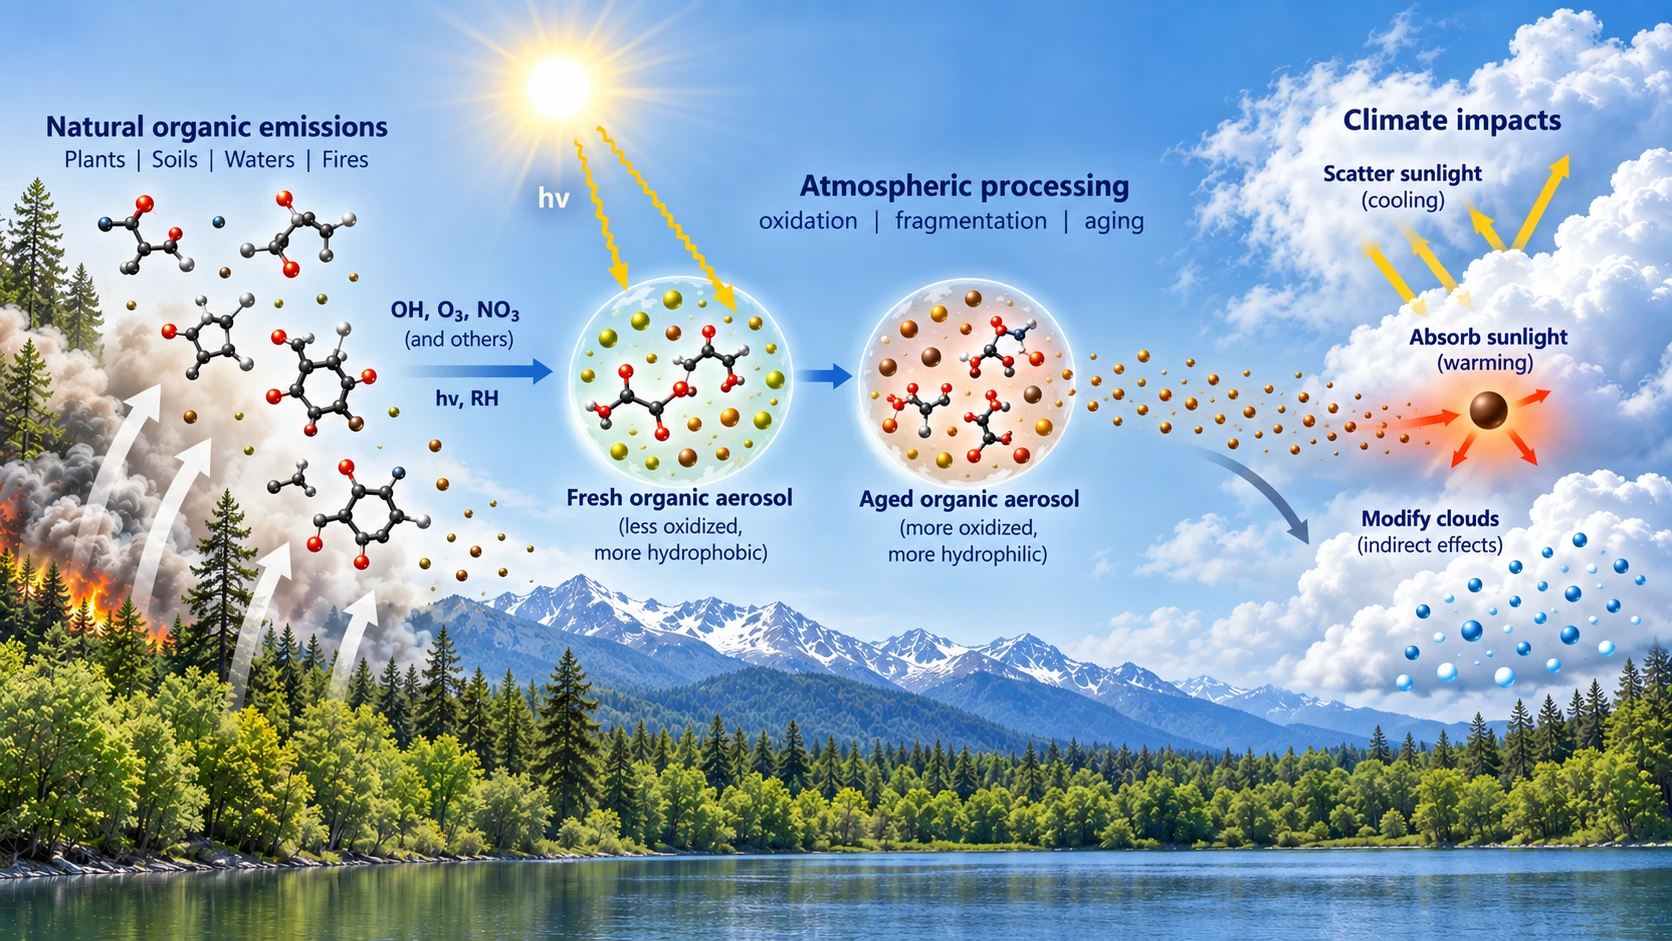
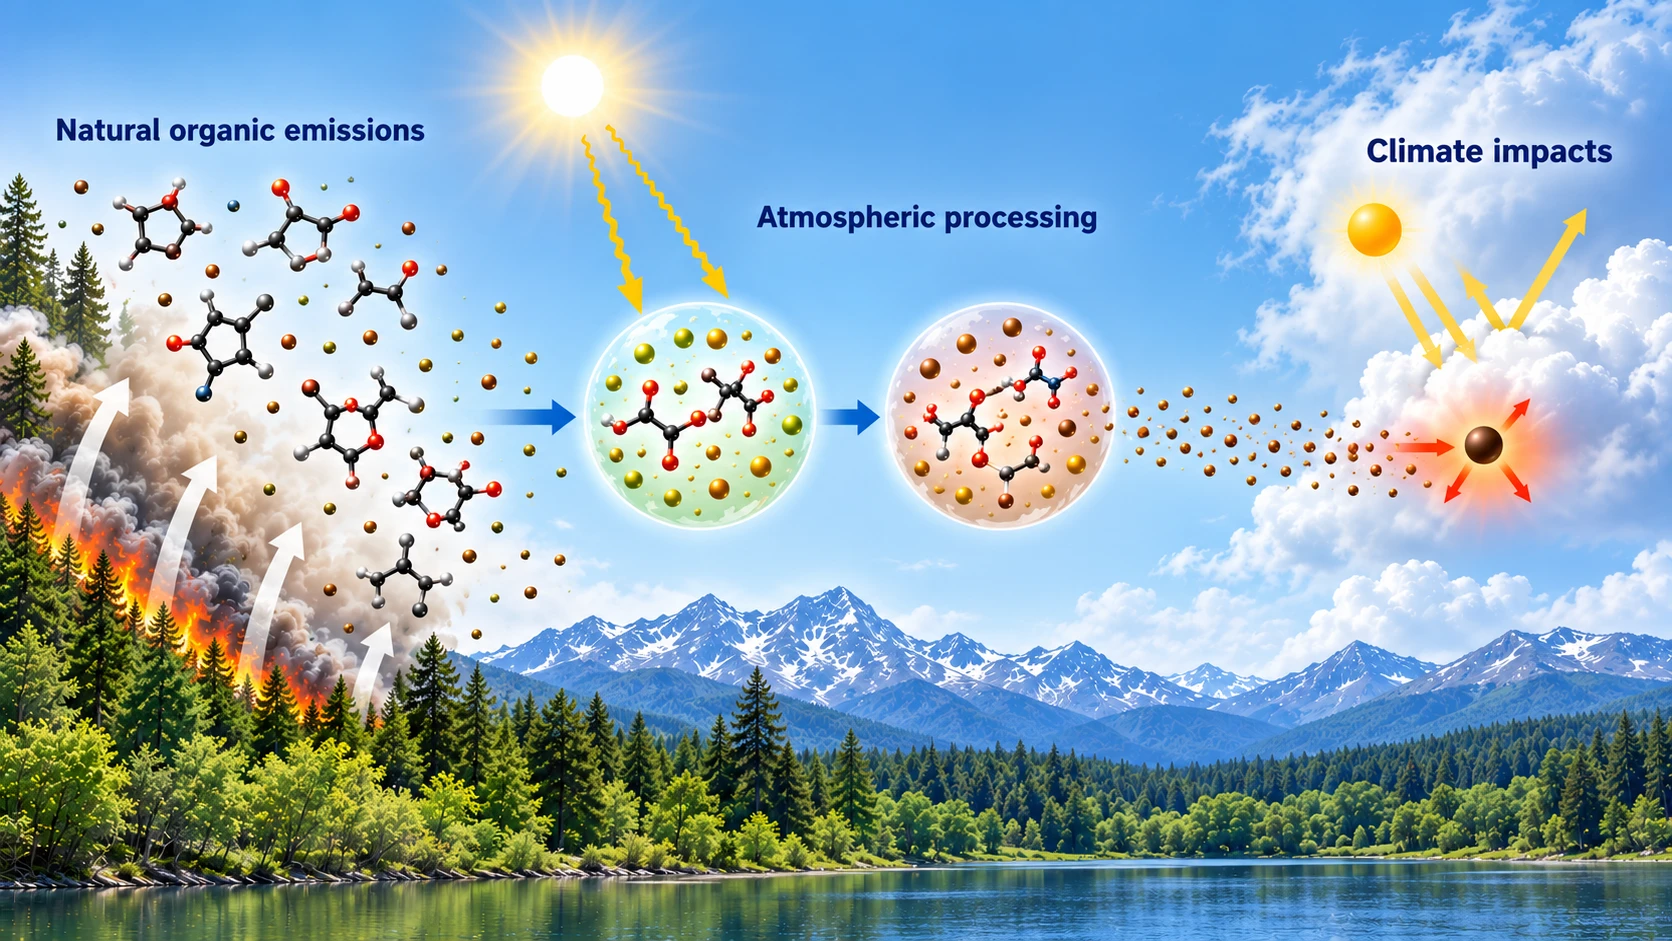
Use simplified aerosol figure on homepage card
Claude-Session: https://claude.ai/code/session_01RtgwkiU9skdLh8Cv94nssV

diff --git a/index.html b/index.html
@@ -6,7 +6,7 @@
 <p class="lead">I use stable isotope geochemistry to investigate the origins, transformations, and fate of organic matter across terrestrial and extraterrestrial environments.</p>
 <div class="button-row"><a class="button primary" href="research.html">Explore my research</a><a class="button secondary" href="assets/cv.pdf" target="_blank">Download CV</a></div></div><div class="hero-image-card"><img src="assets/headshot.png" alt="Headshot of Daniel R. Crocker"></div></div></section>
 <section class="section alt"><div class="container"><p class="eyebrow">Research Program</p><h2>Organic Matter Across Earth and Planetary Systems</h2><p class="section-intro">My research combines high-precision isotope measurements, laboratory experiments, and environmental observations to trace the chemical origins, transformation, and fate of organic matter – from its origins in the early Solar System to its contemporary roles in Earth's atmosphere and surface environments. A central innovation of this research is my development of a novel triple oxygen isotope technique for organic materials, allowing me to recover previously inaccessible information about how organic matter forms and chemically evolves.</p><div class="card-grid">
-<a class="research-card" href="research.html#aerosols"><img class="card-image" src="assets/research-aerosol-lifecycle.webp" alt="Organic aerosol life cycle: natural organic emissions are oxidized in sunlight to form fresh organic aerosol, which ages into more oxidized aerosol that scatters and absorbs sunlight and modifies clouds"><div class="card-body"><h3>Atmospheric Organic Aerosol Chemistry</h3><p>Tracing organic aerosol sources and oxidation pathways to understand how atmospheric chemistry shapes their climate effects.</p></div></a>
+<a class="research-card" href="research.html#aerosols"><img class="card-image" src="assets/research-aerosol-lifecycle.webp" alt="Organic aerosol life cycle: natural organic emissions from forests and fires are processed in the sunlit atmosphere from fresh to aged organic aerosol particles, which then scatter and absorb sunlight, affecting climate"><div class="card-body"><h3>Atmospheric Organic Aerosol Chemistry</h3><p>Tracing organic aerosol sources and oxidation pathways to understand how atmospheric chemistry shapes their climate effects.</p></div></a>
 <a class="research-card" href="research.html#carbon-cycling"><div class="card-body"><h3>Aquatic &amp; Terrestrial Carbon Cycling</h3><p>Resolving organic matter degradation pathways and rates to understand their controls on carbon persistence and cycling in surface environments.</p></div></a>
 <a class="research-card" href="research.html#meteorites"><div class="card-body"><h3>Origins of Organic Matter in the Solar System</h3><p>Reconstructing the formation, distribution, and alteration of meteoritic organics to trace the chemical origins of prebiotic organic material in the early Solar System.</p></div></a>
 </div></div></section></main><footer><div class="container"><p>© <span id="year"></span> Daniel R. Crocker.</p></div></footer><script>document.getElementById("year").textContent=new Date().getFullYear();</script></body></html>
